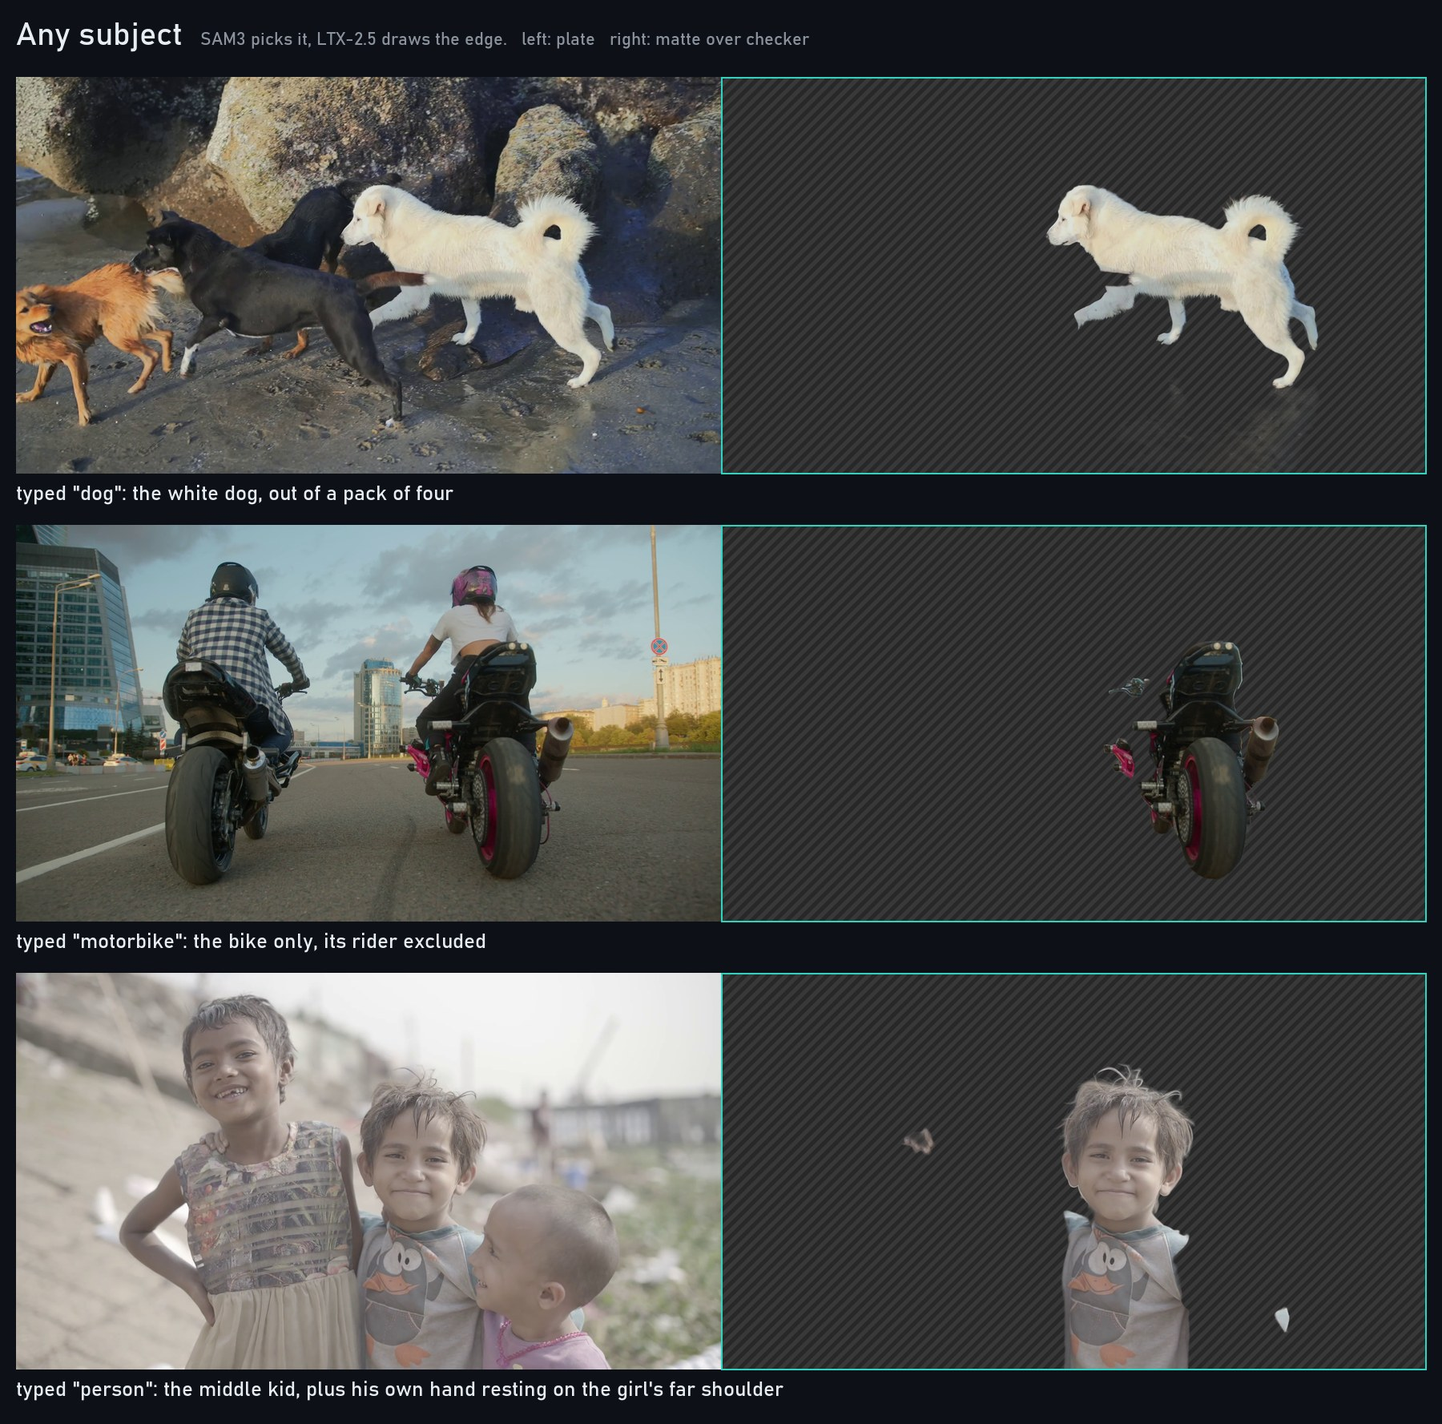
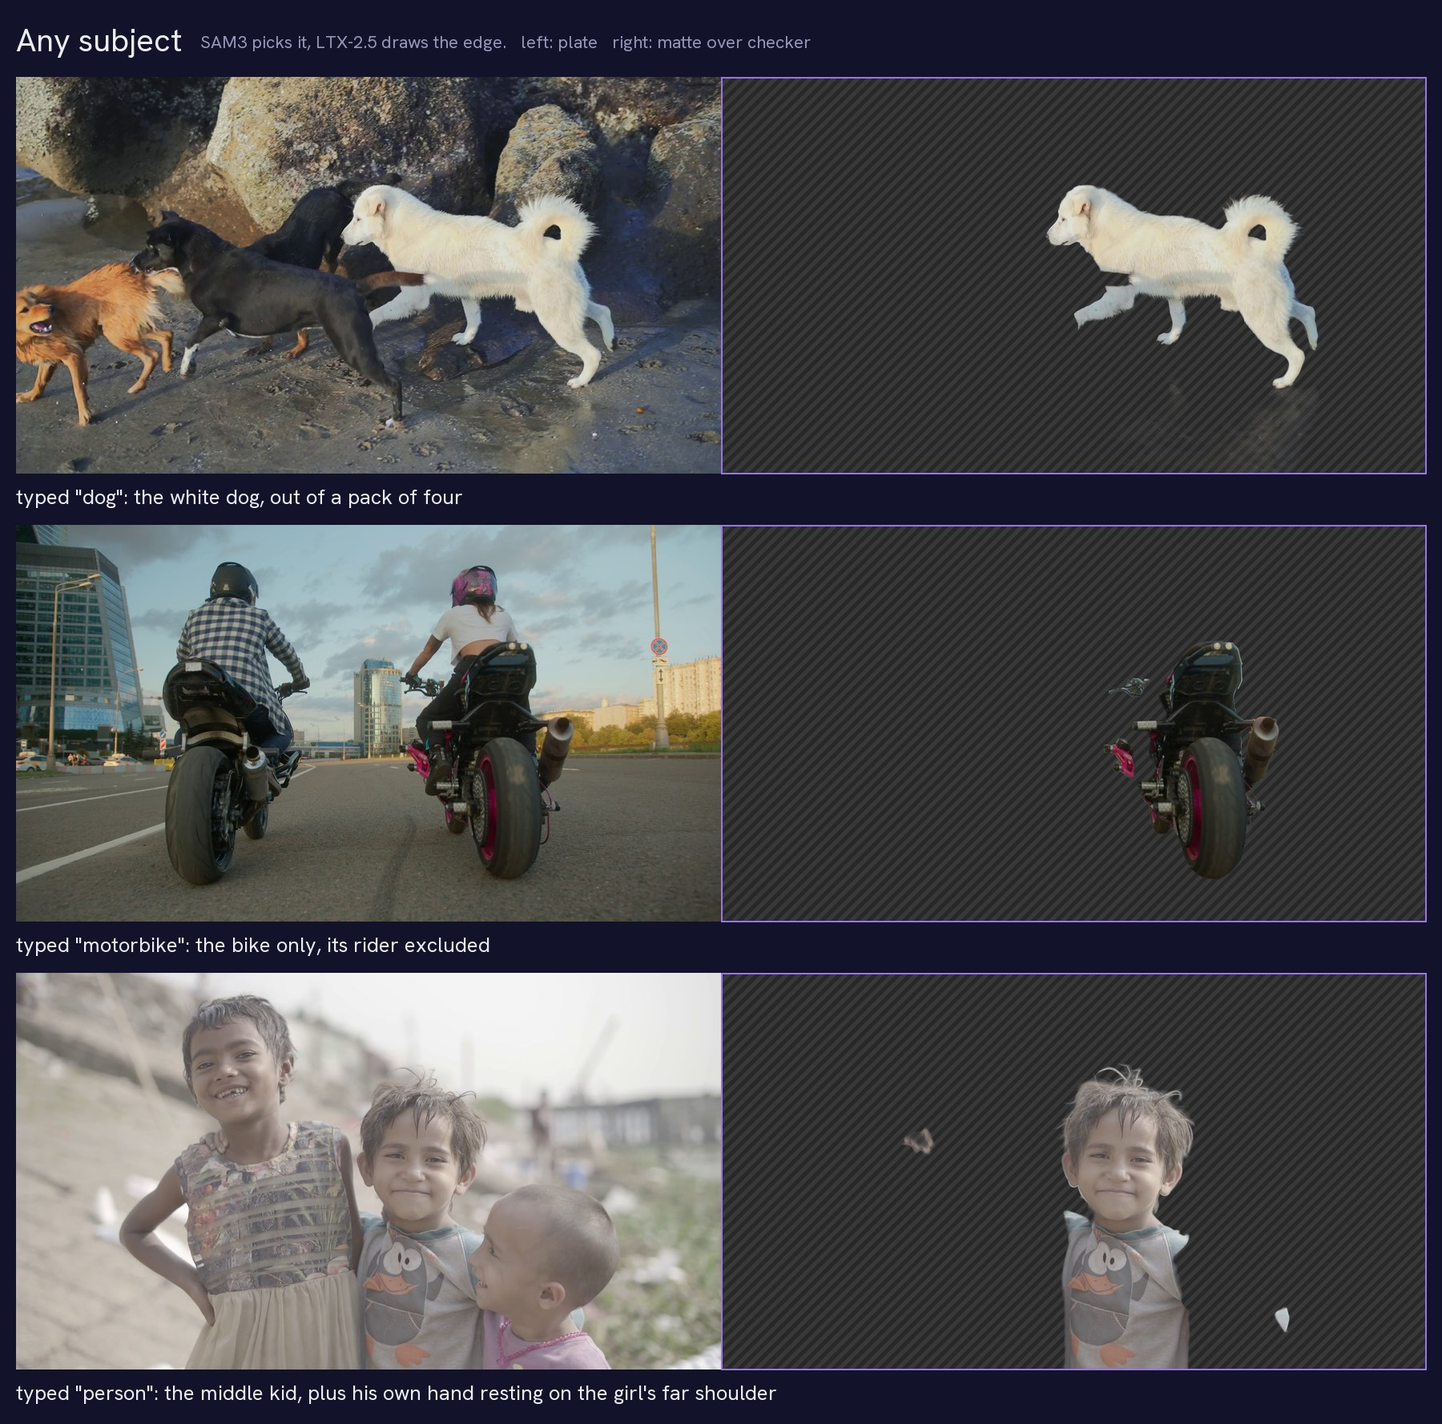
Comfy Compositing theme for the node and README; fix repo links
- Node UI in the Comfy Compositing brand: navy node colours, pill
  buttons in brand blue / purple / amber, mono labels, amber subject
  outline, About panel with the brand dot motif. Hanken Grotesk /
  JetBrains Mono when installed.
- README: brand banner, brand-coloured figures and charts (rendered in
  the brand fonts), badges, "// 01 · section" labels, diagram colours,
  new themed node screenshot.
- Links point to the renamed repo rik-python/ComfyUI-Comfy-Pro-Alpha-Generator.

diff --git a/web/comfy_pro_alpha_generator.js b/web/comfy_pro_alpha_generator.js
@@ -17,33 +17,49 @@ const VERSION = "0.2.0";
 const ADVANCED = ["chunk", "overlap", "fast_attention",
     "seed", "control_after_generate", "erode", "dilate", "near_px", "stabilize_radius", "sam3_threshold"];
 const HIDDEN = ["picks", "render"];
-const COLORS = ["#4aa3ff", "#b07cff", "#3fd0c9", "#e6d94a", "#ff6fb5", "#8bd450", "#ff9d5c", "#9aa4b2"];
-const TARGET = "#ff8a1f", CUT = "#ff4d4d", ADD = "#3ddc84";
+// Comfy Compositing brand (comfycompositing.com), adapted to ComfyUI's dark canvas.
+const BRAND = {
+    navy: "#12122a", navy2: "#1a1a36", navy3: "#24244a", line: "#34345e", text: "#ececf6", muted: "#9696b8",
+    blue: "#63b3ed", purple: "#9a75ea", amber: "#f6a94a", good: "#5dd39e", bad: "#f26d7d",
+};
+const COLORS = [BRAND.blue, BRAND.purple, "#5fd4c8", "#e6d94a", "#ff7eb6", "#8bd450", "#c3a6ff", "#9aa4b2"];
+const TARGET = BRAND.amber, CUT = BRAND.bad, ADD = BRAND.good;
 const MAX_OTHERS = 8;  // excluded detections (one SAM3 track each)
 
+const SANS = `"Hanken Grotesk", "Segoe UI", system-ui, sans-serif`;
+const MONO = `"JetBrains Mono", "Cascadia Mono", Consolas, monospace`;
 const css = `
-.sm-root{display:flex;flex-direction:column;gap:6px;font:12px/1.3 system-ui,sans-serif;color:#ddd;width:100%;height:100%;box-sizing:border-box}
+.sm-root{display:flex;flex-direction:column;gap:7px;font:12px/1.35 ${SANS};color:${BRAND.text};width:100%;height:100%;box-sizing:border-box}
 .sm-bar{display:flex;gap:6px;align-items:center;flex-wrap:wrap}
-.sm-btn{background:#2b2f36;border:1px solid #444b55;color:#eee;border-radius:6px;padding:4px 10px;cursor:pointer;font:inherit}
-.sm-btn:hover{background:#363b44}.sm-btn.primary{background:#ff8a1f;border-color:#ff8a1f;color:#111;font-weight:600}
-.sm-btn.ghost{background:transparent}
-.sm-input{background:#1b1e23;border:1px solid #444b55;color:#eee;border-radius:6px;padding:4px 8px;font:inherit;width:150px}.sm-btn:disabled{opacity:.45;cursor:default}
-.sm-view{position:relative;flex:1 1 auto;min-height:120px;background:#111;border-radius:8px;overflow:hidden}
+.sm-btn{--c:${BRAND.muted};background:transparent;border:1px solid var(--c);color:var(--c);border-radius:999px;padding:3px 11px;cursor:pointer;font:11px/1.4 ${MONO};letter-spacing:.01em;transition:background .12s}
+.sm-btn:hover{background:color-mix(in srgb,var(--c) 16%,transparent)}
+.sm-btn.blue{--c:${BRAND.blue}}.sm-btn.purple{--c:${BRAND.purple}}.sm-btn.amber{--c:${BRAND.amber}}
+.sm-btn.fill{background:var(--c);color:${BRAND.navy};font-weight:600}.sm-btn.fill:hover{filter:brightness(1.08);background:var(--c)}
+.sm-btn.ghost{--c:${BRAND.muted};border-color:transparent}
+.sm-btn:disabled{opacity:.4;cursor:default}
+.sm-input{background:${BRAND.navy};border:1px solid ${BRAND.line};color:${BRAND.text};border-radius:999px;padding:3px 11px;font:11px/1.4 ${MONO};width:150px;outline:none}
+.sm-input:focus{border-color:${BRAND.purple}}
+.sm-view{position:relative;flex:1 1 auto;min-height:120px;background:#0b0b1d;border:1px solid ${BRAND.line};border-radius:10px;overflow:hidden}
 .sm-view canvas{position:absolute;inset:0;width:100%;height:100%}
-.sm-hint{position:absolute;left:8px;bottom:8px;right:8px;background:#000a;border-radius:6px;padding:4px 8px;pointer-events:none}
-.sm-chip{display:inline-flex;gap:4px;align-items:center;background:#22262c;border-radius:10px;padding:2px 8px}
-.sm-dot{width:8px;height:8px;border-radius:50%}
-.sm-scrub{display:flex;gap:8px;align-items:center}.sm-scrub input{flex:1}
-.sm-tabs{display:flex;gap:4px}.sm-tab{padding:3px 10px;border-radius:6px;cursor:pointer;background:#22262c}
-.sm-tab.on{background:#ff8a1f;color:#111;font-weight:600}
-.sm-qc{display:flex;gap:6px;flex-wrap:wrap}.sm-badge{border-radius:10px;padding:2px 8px;font-weight:600;color:#111}
-.sm-g{background:#3ddc84}.sm-a{background:#ffc94d}.sm-r{background:#ff6b6b}
-.sm-about{flex:0 0 auto;border-top:1px solid #333a43;padding-top:4px;color:#aab2bd}
-.sm-about summary{cursor:pointer;list-style:none;user-select:none;color:#c9d1d9}
+.sm-hint{position:absolute;left:8px;bottom:8px;right:8px;background:#0b0b1dcc;border-radius:8px;padding:5px 9px;pointer-events:none}
+.sm-chip{display:inline-flex;gap:5px;align-items:center;background:${BRAND.navy};border:1px solid ${BRAND.line};border-radius:999px;padding:1px 9px;font:10.5px/1.6 ${MONO};color:${BRAND.muted}}
+.sm-dot{width:7px;height:7px;border-radius:50%}
+.sm-scrub{display:flex;gap:8px;align-items:center;font:10.5px ${MONO};color:${BRAND.muted}}.sm-scrub input{flex:1;accent-color:${BRAND.purple}}
+.sm-tabs{display:flex;gap:2px;background:${BRAND.navy};border:1px solid ${BRAND.line};border-radius:999px;padding:2px}
+.sm-tab{padding:2px 11px;border-radius:999px;cursor:pointer;font:11px/1.4 ${MONO};color:${BRAND.muted}}
+.sm-tab.on{background:${BRAND.purple};color:${BRAND.navy};font-weight:600}
+.sm-qc{display:flex;gap:6px;flex-wrap:wrap}
+.sm-badge{--c:${BRAND.muted};border:1px solid var(--c);color:var(--c);background:color-mix(in srgb,var(--c) 12%,transparent);border-radius:999px;padding:1px 9px;font:600 10.5px/1.6 ${MONO}}
+.sm-g{--c:${BRAND.good}}.sm-a{--c:${BRAND.amber}}.sm-r{--c:${BRAND.bad}}
+.sm-about{flex:0 0 auto;border-top:1px solid ${BRAND.line};padding-top:6px;color:${BRAND.muted}}
+.sm-about summary{cursor:pointer;list-style:none;user-select:none;display:flex;align-items:center;gap:8px;font:10.5px/1.6 ${MONO};letter-spacing:.06em;text-transform:uppercase}
 .sm-about summary::-webkit-details-marker{display:none}
-.sm-about summary::before{content:"\\25B8  "}.sm-about[open] summary::before{content:"\\25BE  "}
-.sm-about-body{display:grid;gap:4px;padding:6px 2px 2px 14px}
-.sm-about b{color:#eee}.sm-about a{color:#2dd4bf;text-decoration:none}.sm-about a:hover{text-decoration:underline}
+.sm-about summary::after{content:"+";margin-left:auto;color:${BRAND.muted}}.sm-about[open] summary::after{content:"\u2212"}
+.sm-motif{display:inline-flex;align-items:center;gap:0}
+.sm-motif i{width:6px;height:6px;border-radius:50%;display:block}.sm-motif s{width:12px;border-top:1px dashed ${BRAND.muted};display:block;opacity:.7}
+.sm-about-body{display:grid;gap:4px;padding:8px 2px 2px}
+.sm-about b{color:${BRAND.text}}.sm-about a{color:${BRAND.blue};text-decoration:none}.sm-about a:hover{text-decoration:underline}
+.sm-about .sm-name{font:600 15px/1.2 ${SANS};color:${BRAND.text}}.sm-about .sm-name em{font-style:normal;color:${BRAND.purple}}
 `;
 
 function injectCss() {
@@ -203,15 +219,22 @@ function aboutPanel() {
         return d;
     };
     const details = el("details", "sm-about");
-    details.append(el("summary", null, `About ${TITLE}`));
+    const sum = el("summary");
+    const motif = el("span", "sm-motif");
+    [BRAND.blue, BRAND.purple, BRAND.amber].forEach((c, i) => {
+        if (i) motif.append(el("s"));
+        const d = el("i"); d.style.background = c; motif.append(d);
+    });
+    sum.append(motif, el("span", null, "// About · Comfy Compositing"));
+    details.append(sum);
     const body = el("div", "sm-about-body");
     body.append(
-        line(el("b", null, TITLE), ` v${VERSION}`),
+        (() => { const n = el("div", "sm-name"); n.append("Comfy Pro ", el("em", null, "Alpha Generator"), el("span", "sm-chip", `v${VERSION}`)); n.lastChild.style.marginLeft = "8px"; return n; })(),
         line("Mattes one chosen subject with generative edge quality: SAM3 picks it, LTX-2.5 alpha-gen draws the edge."),
         line("Created by ", el("b", null, "Rikin Patel"), " at ", link("https://comfycompositing.com", "Comfy Compositing"), "."),
         line("Free for personal and non-commercial use (PolyForm Noncommercial 1.0.0). Commercial use needs a license: ",
              link("https://comfycompositing.com/contact", "comfycompositing.com/contact"), "."),
-        line(link("https://github.com/rik-python/Comfy-Pro-Alpha-Generator", "Docs and updates on GitHub")),
+        line(link("https://github.com/rik-python/ComfyUI-Comfy-Pro-Alpha-Generator", "Docs and updates on GitHub")),
     );
     details.append(body);
     for (const ev of ["pointerdown", "mousedown"]) details.addEventListener(ev, (e) => e.stopPropagation());  // not a canvas drag
@@ -259,7 +282,7 @@ class Picker {
             t.dataset.k = k;
             this.tabs.appendChild(t);
         }
-        this.loadBtn = el("button", "sm-btn", "Load plate");
+        this.loadBtn = el("button", "sm-btn blue", "Load plate");
         this.loadBtn.title = "Run the nodes feeding 'images' and show the plate here (again after changing crop/resize)";
         this.loadBtn.onclick = () => this.loadPlate();
         this.promptBox = el("input", "sm-input");
@@ -270,17 +293,17 @@ class Picker {
         for (const ev of ["keydown", "keyup", "keypress"]) this.promptBox.addEventListener(ev, (e) => e.stopPropagation());
         this.promptBox.addEventListener("keydown", (e) => { if (e.key === "Enter") this.detect(); });
         this.promptBox.addEventListener("change", () => { this.picks.prompt = this.promptText(); this.writePicks(); });
-        this.detectBtn = el("button", "sm-btn primary", "Detect");
+        this.detectBtn = el("button", "sm-btn purple fill", "Detect");
         this.detectBtn.onclick = () => this.detect();
         const clear = el("button", "sm-btn ghost", "Clear picks");
         clear.onclick = () => {
             this.picks = { cuts: [], adds: [], others: [], detect: this.picks.detect, prompt: this.picks.prompt };
             this.writePicks(); this.render();
         };
-        this.previewBtn = el("button", "sm-btn", "Preview chunk");
+        this.previewBtn = el("button", "sm-btn amber", "Preview chunk");
         this.previewBtn.title = "Render the first 49 frames from the pick frame";
         this.previewBtn.onclick = () => this.queue(true);
-        const run = el("button", "sm-btn", "Run full shot");
+        const run = el("button", "sm-btn amber fill", "Run full shot");
         run.onclick = () => this.queue(false);
         this.advBtn = el("button", "sm-btn ghost", "⚙ Advanced");
         this.advBtn.onclick = () => this.toggleAdvanced();
@@ -401,7 +424,7 @@ class Picker {
         if (this.info) {  // LTX alpha-gen is tuned for 1920x1088; a 1920x1080 plate is padded to it automatically
             const { width: w, height: h } = this.info;
             const best = w === 1920 && (h === 1080 || h === 1088);
-            const c = chip(best ? ADD : "#ffc94d", best ? `plate ${w}×${h}` : `plate ${w}×${h} (best: 1920×1088)`);
+            const c = chip(best ? ADD : BRAND.amber, best ? `plate ${w}×${h}` : `plate ${w}×${h} (best: 1920×1088)`);
             c.title = best ? "Best size for LTX alpha-gen."
                 : "LTX alpha-gen is tuned for 1920x1088 (1080p plates are padded automatically). Other sizes work, "
                   + "but edges can be softer. Resize upstream for best quality; for 4K, matte a 1080p proxy.";
@@ -768,11 +791,11 @@ class Picker {
                 g.strokeRect(bx, by, w * r.w, h * r.h);
                 g.setLineDash([]);
                 const tag = p.label ? `${p.id + 1} ${p.label}` : String(p.id + 1);
-                g.font = "bold 12px system-ui"; g.textAlign = "left"; g.textBaseline = "middle";
+                g.font = `600 12px ${SANS}`; g.textAlign = "left"; g.textBaseline = "middle";
                 const tw = g.measureText(tag).width + 12;
                 g.fillStyle = color;
                 g.beginPath(); g.roundRect(bx + 2, by + 2, tw, 20, 10); g.fill();
-                g.fillStyle = "#111";
+                g.fillStyle = BRAND.navy;
                 g.fillText(tag, bx + 8, by + 12);
             }
         }
@@ -792,18 +815,18 @@ class Picker {
                 if (ov) { g.globalAlpha = 0.5; g.drawImage(ov.canvas, r.x, r.y, r.w, r.h); g.globalAlpha = 1; }
                 const px = r.x + p.x * r.w, py = r.y + p.y * r.h;
                 g.fillStyle = color; g.beginPath(); g.arc(px, py, 9, 0, Math.PI * 2); g.fill();
-                g.fillStyle = "#111"; g.font = "bold 14px system-ui"; g.textAlign = "center"; g.textBaseline = "middle";
+                g.fillStyle = BRAND.navy; g.font = `600 14px ${SANS}`; g.textAlign = "center"; g.textBaseline = "middle";
                 g.fillText(sym, px, py + 1);
             }
         }
         if (this.waiting) {
-            this.hint.style.background = "#5a4a12dd";
+            this.hint.style.background = "#4a3514e6";
             this.hint.textContent = "⏳ Waiting for the running render to finish (ComfyUI runs one job at a time). "
                 + "Cancel it in the queue panel to go now.";
             return;
         }
         const warn = [...this.picks.cuts, ...this.picks.adds].find((p) => p.warning);
-        this.hint.style.background = warn || this.picks.stale ? "#7a1f1fdd" : "";
+        this.hint.style.background = warn || this.picks.stale ? "#5a1a2ae6" : "";
         this.hint.textContent = warn ? `⚠ ${warn.warning}`
             : this.picks.stale ? "⚠ The plate changed (crop/resize/new clip) after picking: Detect again."
             : !this.info ? "Connect the plate to 'images', then click Load plate."
@@ -842,7 +865,7 @@ class Picker {
         const kind = /_preview$/.test(q.out_dir || "") ? "preview" : "full shot";
         const range = `${kind}: frames ${q.first_frame}-${q.first_frame + q.frames - 1}`;
         const inside = this.frame >= first && this.frame < first + q.frames;
-        this.hint.style.background = inside ? "" : "#5a4a12dd";
+        this.hint.style.background = inside ? "" : "#4a3514e6";
         this.hint.textContent = inside
             ? `${range} · ${q.mode} · frame ${q.first_frame + it.frame} · drag to wipe plate | ${key}` +
               (q.out_dir ? ` · saved: ${q.out_dir}` : "")
@@ -861,7 +884,6 @@ class Picker {
         const vsLtx = info.ltx_cover == null || info.ltx_cover >= 60;
         if (!vsLtx) {
             const b = badge("flicker / soft edge", "n/a", "");
-            b.style.background = "#9aa4b2";
             b.title = "Measured against LTX, which did not matte this subject: mostly a ViTMatte result. Judge by eye.";
             kids.push(b);
         } else if (info.flicker_x != null) {
@@ -906,6 +928,18 @@ function tintCache(p, color) {
 app.registerExtension({
     name: "ComfyProAlpha.Picker",
     async beforeRegisterNodeDef(nodeType, nodeData) {
+        // Brand colours for every node of the pack (title bar navy, body a step lighter). A colour the user picks
+        // from the node's right-click menu is saved in the workflow and wins on load.
+        const BRANDED = [NODE, LEGACY, "ComfyProAlpha_LoadPlateSequence", "SelectiveMatte_LoadPlateSequence"];
+        if (BRANDED.includes(nodeData.name)) {
+            const made = nodeType.prototype.onNodeCreated;
+            nodeType.prototype.onNodeCreated = function () {
+                const r = made?.apply(this, arguments);
+                this.color = BRAND.navy;
+                this.bgcolor = BRAND.navy2;
+                return r;
+            };
+        }
         if (nodeData.name !== NODE && nodeData.name !== LEGACY) return;
         const created = nodeType.prototype.onNodeCreated;
         nodeType.prototype.onNodeCreated = function () {

diff --git a/README.md b/README.md
@@ -1,19 +1,17 @@
 <div align="center">
 
-# Comfy Pro Alpha Generator
-
-**Generative-quality mattes for one chosen subject. One ComfyUI node.**
+<img src="docs/images/banner.png" alt="Comfy Pro Alpha Generator by Comfy Compositing" width="100%">
 
 by **Rikin Patel** · [Comfy Compositing](https://comfycompositing.com)
 
 SAM3 decides *what* to matte. LTX-2.5 alpha-gen decides *how the edge looks*.
 
-![ComfyUI](https://img.shields.io/badge/ComfyUI-0.38%2B-0d1117?style=flat-square&labelColor=2dd4bf&color=0d1117)
-![LTX-2.5](https://img.shields.io/badge/LTX--2.5-IC--LoRA%20alpha--gen-0d1117?style=flat-square&labelColor=2dd4bf)
-![SAM3](https://img.shields.io/badge/SAM3-tracking-0d1117?style=flat-square&labelColor=2dd4bf)
-![VRAM](https://img.shields.io/badge/VRAM-12%20GB%2B-0d1117?style=flat-square&labelColor=fb923c)
-![RAM](https://img.shields.io/badge/RAM-16%20GB%2B-0d1117?style=flat-square&labelColor=fb923c)
-![License](https://img.shields.io/badge/license-free%20non--commercial-0d1117?style=flat-square&labelColor=8b949e)
+![ComfyUI](https://img.shields.io/badge/ComfyUI-0.38%2B-12122a?style=flat-square&labelColor=9a75ea)
+![LTX-2.5](https://img.shields.io/badge/LTX--2.5-IC--LoRA%20alpha--gen-12122a?style=flat-square&labelColor=9a75ea)
+![SAM3](https://img.shields.io/badge/SAM3-tracking-12122a?style=flat-square&labelColor=63b3ed)
+![VRAM](https://img.shields.io/badge/VRAM-12%20GB%2B-12122a?style=flat-square&labelColor=63b3ed)
+![RAM](https://img.shields.io/badge/RAM-16%20GB%2B-12122a?style=flat-square&labelColor=63b3ed)
+![License](https://img.shields.io/badge/license-free%20non--commercial-12122a?style=flat-square&labelColor=f6a94a)
 
 </div>
 
@@ -22,6 +20,8 @@ SAM3 decides *what* to matte. LTX-2.5 alpha-gen decides *how the edge looks*.
 <sub>Task: matte the middle kid only. **LTX alpha-gen alone** has perfect hair but mattes all three kids, and there is no way to tell it which one. **SAM3** and **ONYX-style** pick the right kid but lose the strands. **Comfy Pro Alpha Generator** does both. Top: matte over checker. Below: hair zoom as alpha, then comped over green.</sub>
 
 ---
+
+<sub><code>// 01 · problem</code></sub>
 
 ## The problem
 
@@ -33,6 +33,8 @@ and each one is missing half of the answer:
 | **LTX-2.5 alpha-gen** (generative) | no | hair-level | Renders the matte jointly over the whole clip, but mattes *every* main subject and can't be told which one. |
 | **SAM3 / ONYX-style** (discriminative) | yes | soft, per-frame | Tracks any object you point at, then *measures* the edge frame by frame with ViTMatte. Strands get lost; edges chatter. |
 | **Comfy Pro Alpha Generator** | **yes** | **hair-level** | SAM3 steers, LTX draws. Built from both. |
+
+<sub><code>// 02 · results</code></sub>
 
 ## Results
 
@@ -82,6 +84,8 @@ including the same class: the white dog out of four, the bike without its rider.
 
 ---
 
+<sub><code>// 03 · method</code></sub>
+
 ## How it works
 
 ```mermaid
@@ -96,8 +100,11 @@ flowchart LR
     L2 --> B
     R --> B
     B --> A([16-bit alpha + QC])
-    style B fill:#0d1117,stroke:#2dd4bf,color:#e6edf3
-    style A fill:#2dd4bf,stroke:#2dd4bf,color:#0d1117
+    style B fill:#12122a,stroke:#9a75ea,color:#ececf6
+    style L1 stroke:#63b3ed
+    style L2 stroke:#63b3ed
+    style S stroke:#f6a94a
+    style A fill:#9a75ea,stroke:#9a75ea,color:#12122a
 ```
 
 **The key ideas**
@@ -136,6 +143,8 @@ flowchart LR
 </details>
 
 ---
+
+<sub><code>// 04 · usage</code></sub>
 
 ## Using it
 
@@ -197,6 +206,8 @@ subjects, SAM3 threshold and `fast_attention`. Hover any model selector for the 
 
 ---
 
+<sub><code>// 05 · hardware</code></sub>
+
 ## Hardware
 
 **Which setup do I need?** Same example workflow for everyone; only these change:
@@ -232,11 +243,13 @@ model list, e.g. `LTX-2.5-Distilled-Q4_K_M.gguf` (15 GB, [realrebelai/LTX-2.5_GG
 Use it only to save disk space: GGUF can't be streamed from disk, so it needs *more* RAM (27 vs 21 GB) and runs about
 30% slower. Edge difference 0.05; it looks the same.
 
+<sub><code>// 06 · install</code></sub>
+
 ## Install
 
 **1. Clone into `ComfyUI/custom_nodes`:**
 ```
-git clone https://github.com/rik-python/Comfy-Pro-Alpha-Generator.git
+git clone https://github.com/rik-python/ComfyUI-Comfy-Pro-Alpha-Generator.git
 ```
 
 **2. Required node packs** (ComfyUI Manager can install both):
@@ -281,7 +294,7 @@ git clone https://github.com/rik-python/Comfy-Pro-Alpha-Generator.git
 ```
 ComfyUI/
 ├── custom_nodes/
-│   ├── Comfy-Pro-Alpha-Generator/        <- this repo
+│   ├── ComfyUI-Comfy-Pro-Alpha-Generator/   <- this repo
 │   ├── ComfyUI-SAM3/
 │   └── ComfyUI-LTXVideo/
 └── models/
@@ -314,6 +327,8 @@ hf download Lightricks/LTX-2.5-22b-IC-LoRA-Alpha-Gen ltx-2.5-22b-ic-lora-alpha-g
 Models already in a subfolder (`models/diffusion_models/LTX/...`) work too: the node finds them by file name.
 Press **R** in ComfyUI after adding files. **Low-RAM tip:** keep `models/` on an NVMe SSD (see [Hardware](#hardware)).
 
+<sub><code>// 07 · limits</code></sub>
+
 ## Limits
 
 - Tracks start at the frame you detected on; frames before it come out empty.
@@ -327,6 +342,8 @@ Press **R** in ComfyUI after adding files. **Low-RAM tip:** keep `models/` on an
 - Light fringes on hair are colour spill from the plate. Despill in comp.
 - Shots are limited to 24 chunks (about 960 frames). Split longer shots.
 
+<sub><code>// 08 · credits</code></sub>
+
 ## Credits
 
 Built on [LTX-2.5 and the IC-LoRA Alpha-Gen](https://huggingface.co/Lightricks/LTX-2.5-22b-IC-LoRA-Alpha-Gen) by
@@ -337,6 +354,8 @@ ONYX Ai Matte is a product of its respective owner; it is referenced here only a
 
 **Author: Rikin Patel**, VFX compositor (Nuke) and ComfyUI educator at [Comfy Compositing](https://comfycompositing.com).
 Designed for real compositing work: one subject, plate-accurate frame numbers, 16-bit/EXR output, measurable QC.
+
+<sub><code>// 09 · license</code></sub>
 
 ## License
 
